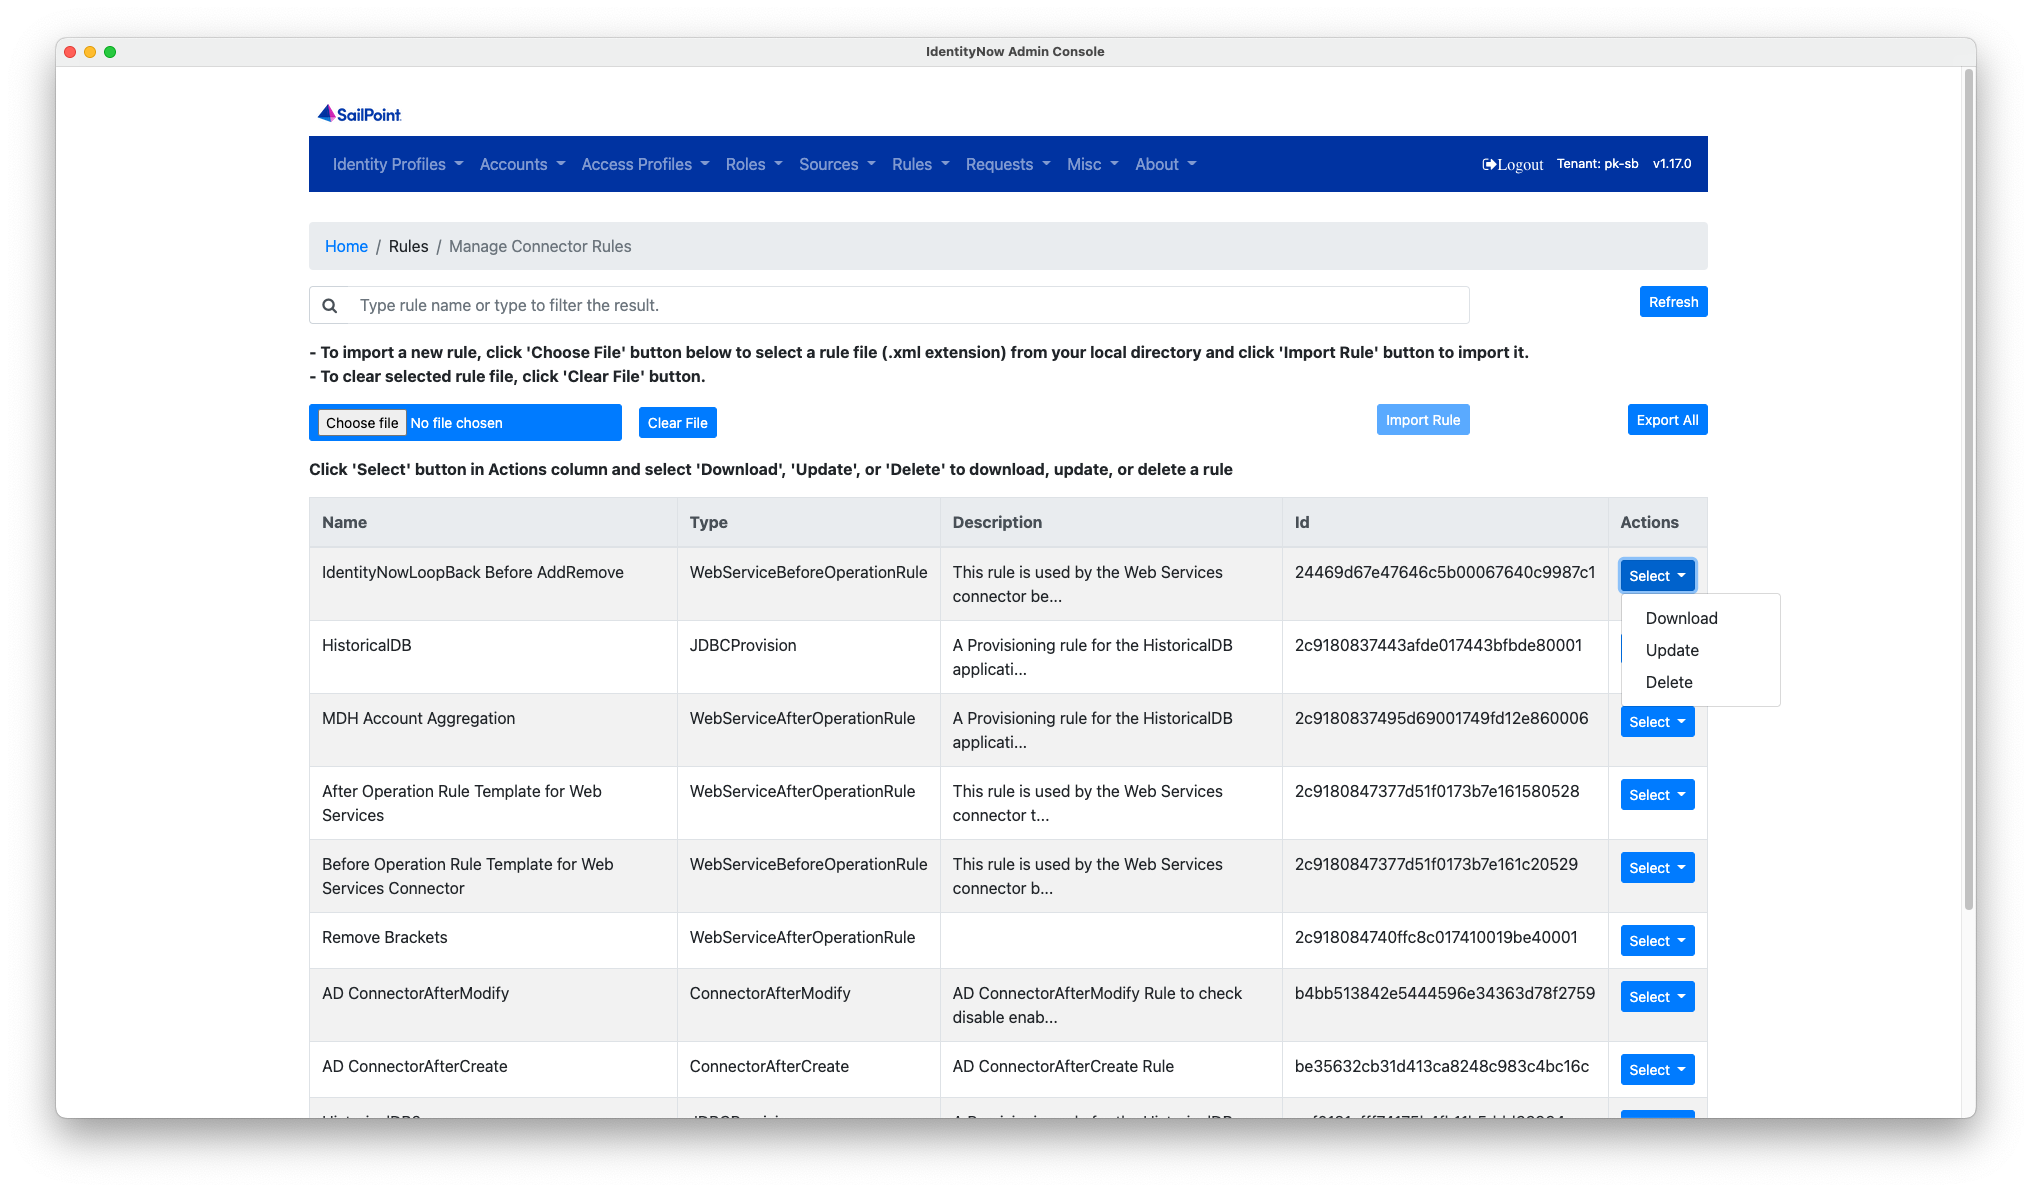
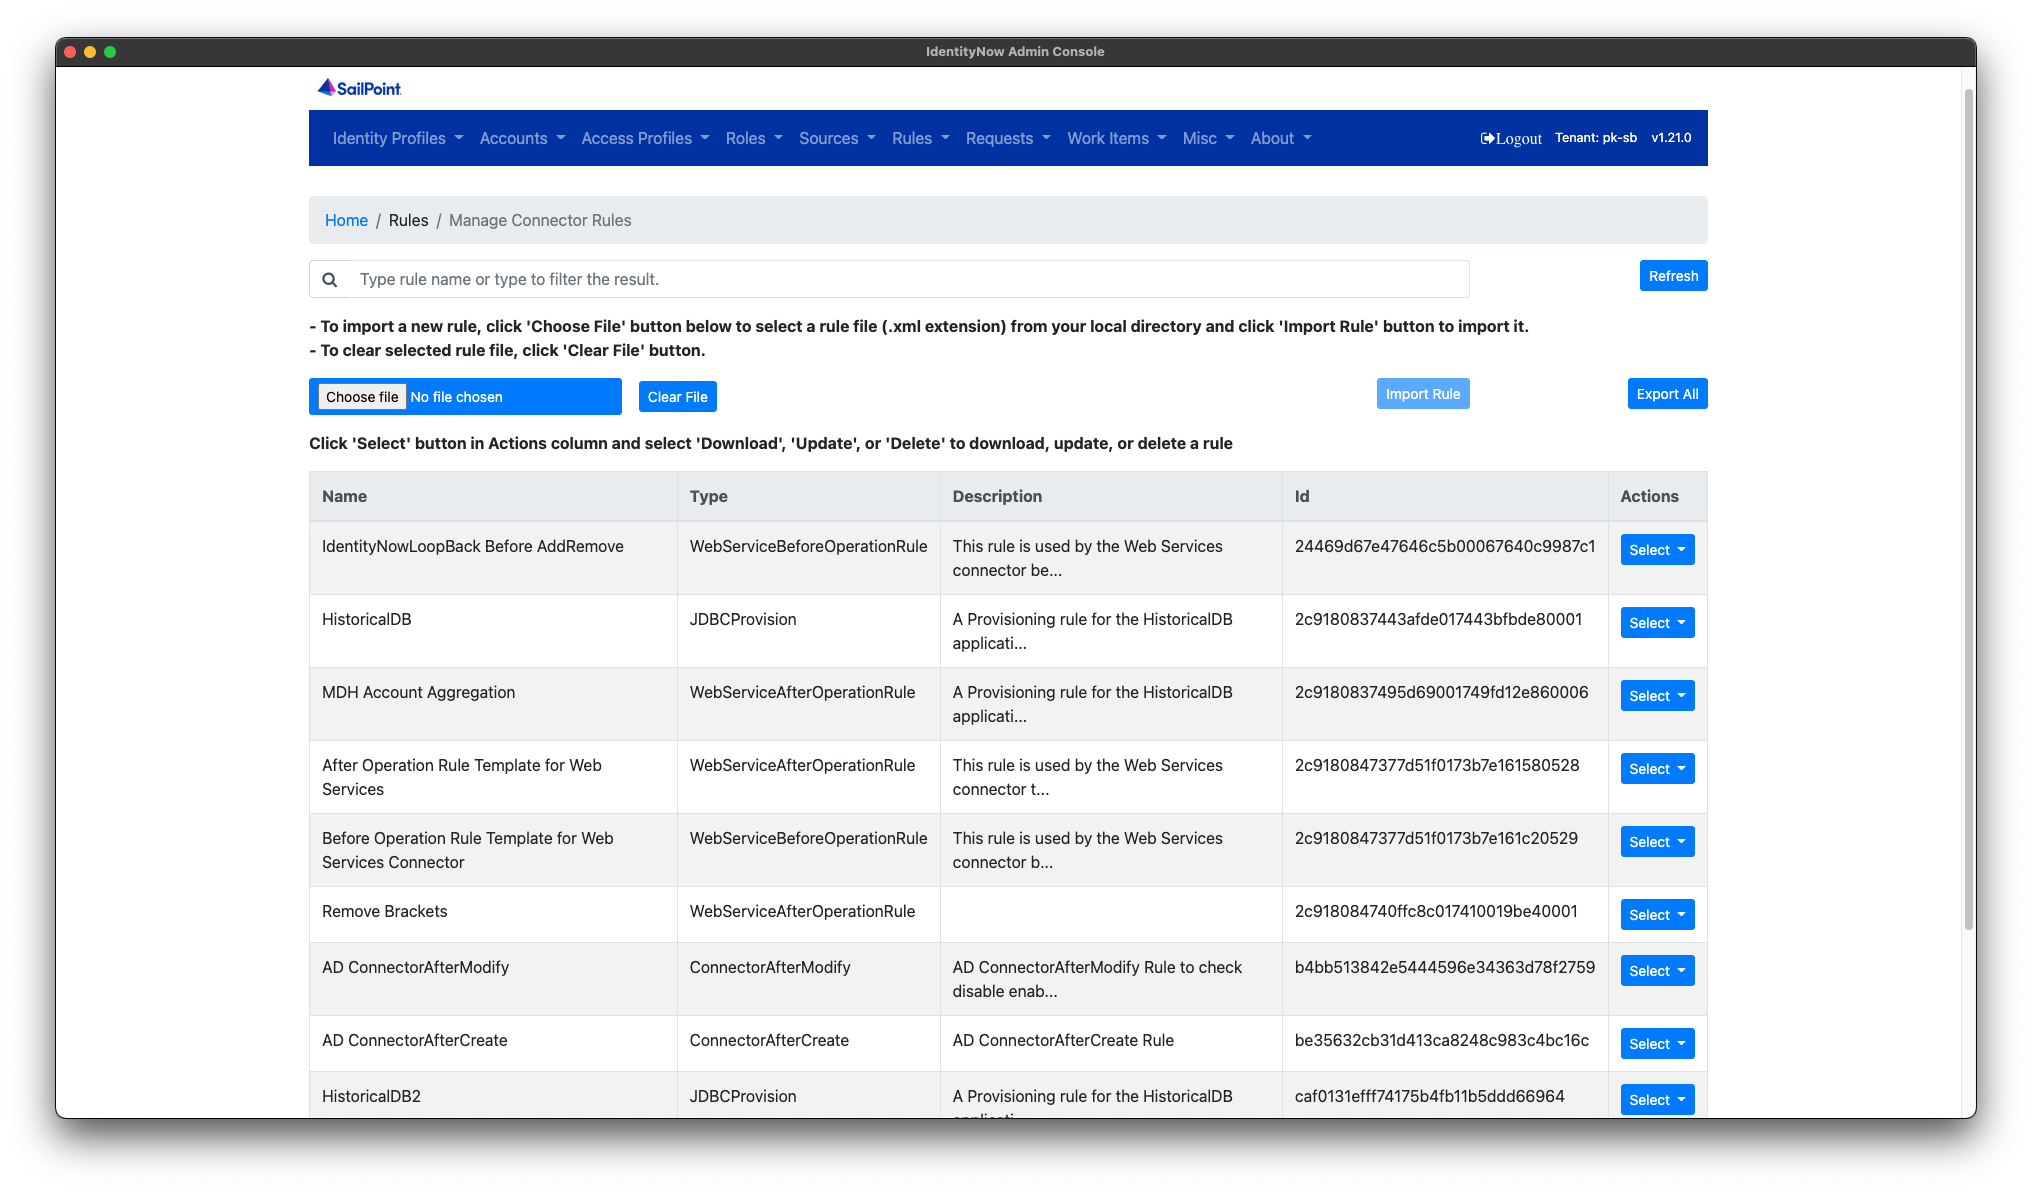
v1.21.0
Closes #203

Changed region(s): [[0.0, 0.031, 0.9921, 0.9622], [0.7751, 0.3104, 0.8371, 0.3725], [0.8061, 0.2173, 0.8371, 0.2794]]

diff --git a/src/app/service/idn.service.ts b/src/app/service/idn.service.ts
@@ -1056,6 +1056,27 @@ export class IDNService {
     
     return this.http.delete(url, myHttpOptions);
   }
+
+  refreshSingleIdentity(identityId: string): Observable<any> {
+    const currentUser = this.authenticationService.currentUserValue;
+    let url = `https://${currentUser.tenant}.api.${currentUser.domain}/cc/api/system/refreshIdentities`;
+
+
+    let payload = 
+    {
+      "filter" : `name == \"${identityId}\"`,
+      "refreshArgs" : {
+        "correlateEntitlements" : "true",
+        "promoteAttributes" : "true",
+        "refreshManagerStatus" : "true",
+        "synchronizeAttributes" : "true",
+        "pruneIdentities" : "true",
+        "provision" : "true"
+      }
+   };
+
+    return this.http.post(url, payload, this.httpOptions);
+  }
   
    /** Log a HeroService message with the MessageService */
    private log(message: string) {

diff --git a/src/app/release-history/release-history.component.html b/src/app/release-history/release-history.component.html
@@ -17,6 +17,19 @@
   <tbody>
     <ng-container>
       <tr>
+        <td>1.21.0</td>
+        <td>2023-03-15</td>
+        <td>
+          <ul>
+            <li>Enhancements
+              <ul>
+                <li><a href="https://github.com/piyush-khandelwal-sp/idn-admin-console/issues/203" target="_blank">#203</a>&nbsp;Refresh Single Identity</li>
+              </ul>
+            </li>
+          </ul>
+        </td>
+      </tr>
+      <tr>
         <td>1.20.2</td>
         <td>2023-03-13</td>
         <td>

diff --git a/src/app/identity-info/identity-info.component.ts b/src/app/identity-info/identity-info.component.ts
@@ -167,6 +167,20 @@ export class IdentityInfoComponent implements OnInit {
 
   }
 
+  refreshIdentity() {
+
+    if (this.accountName && this.accountName.trim() != '') {
+
+      this.idnService.refreshSingleIdentity(this.accountName)
+      .subscribe(result => {
+          this.messageService.add(`Trigerred Identity Refresh`);
+      },
+      err => {
+        this.messageService.handleIDNError(err);
+      });
+    }
+  }
+
   saveInCsv() {
     var options = {
       fieldSeparator: ',',

diff --git a/src/app/identity-info/identity-info.component.html b/src/app/identity-info/identity-info.component.html
@@ -31,6 +31,11 @@
     </button>
   </div>
   <div class="col-sm-2 text-left">
+    <button type="button" *ngIf="identityInfo" [disabled]="loading" (click)="refreshIdentity()" class="btn btn-primary btn-sm">
+      Refresh Identity
+    </button>
+  </div>
+  <div class="col-sm-2 text-left">
     <button type="button" *ngIf="identityInfo" [disabled]="loading" (click)="saveInCsv()" class="btn btn-primary btn-sm">
       Download
     </button>

diff --git a/src/app/app.component.html b/src/app/app.component.html
@@ -118,7 +118,7 @@
         </span>
         &nbsp;&nbsp;
         <span class="text-white">
-          v1.20.2
+          v1.21.0
         </span>
       </small>
     </div>

diff --git a/README.md b/README.md
@@ -35,7 +35,7 @@ We are looking for (list is not exhaustive)
 ## Features
 
 * Identity Profiles
-    * Identity Info (Get Identity Details / Get Manager Details)
+    * Identity Info (Get Identity Details / Get Manager Details / Refresh Single Identity / Download Report)
     * Manage Identity Profile (Move Priority / Refresh Individual Profile / Export All)
     * Manage Identity Attribute Index (Index / Unindex Attributes)
     * Manage Transforms (Add / Update / Delete / Download / Export All)
